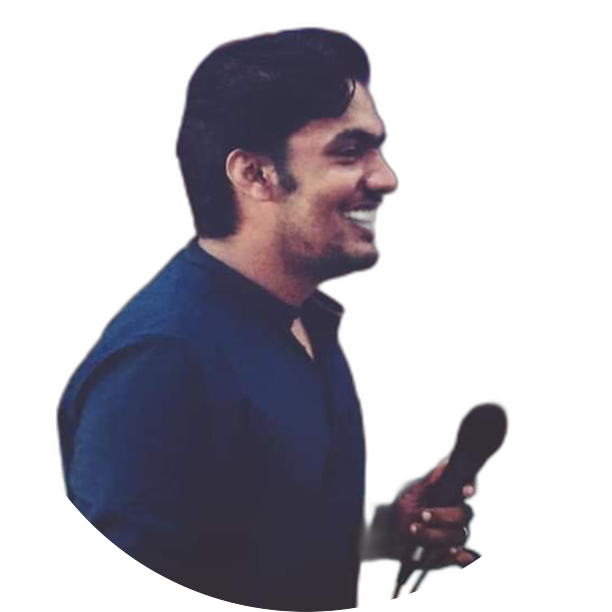
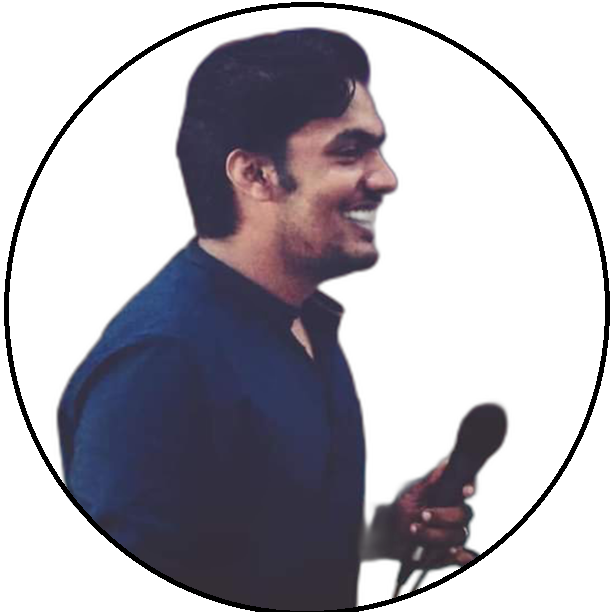
social media buttons, proPic update

diff --git a/index.html b/index.html
@@ -34,7 +34,15 @@
 							<header>
 								<h1>Hi. I'm <strong>Jishnu Prakash</strong></h1>
 							</header>
-							<p>Data Scientist • Volunteer • Engineer</p>
+							<p>Data Scientist • Volunteer • Engineer
+								<ul class="social">
+									<li><a href="https://www.linkedin.com/in/jishnuprakashkp/" class="icon brands fa-linkedin-in"><span class="label">LinkedIn</span></a></li>
+									<li><a href="https://github.com/Jishnuprakash" class="icon brands fa-github"><span class="label">Github</span></a></li>
+									<li><a href="https://www.instagram.com/jishnuprakash.kp/" class="icon brands fa-instagram"><span class="label">Instagram</span></a></li>
+									<li><a href="https://twitter.com/jishnuprakashkp" class="icon brands fa-twitter"><span class="label">Twitter</span></a></li>
+									<li><a href="https://www.facebook.com/profile.php?id=100002060808403" class="icon brands fa-facebook-f"><span class="label">Facebook</span></a></li>
+								</ul>
+							</p>
 							<a href="#projects" class="button large scrolly">Click to see my projects!</a>
 						</div>
 					</div>

diff --git a/assets/css/main.css b/assets/css/main.css
@@ -1804,7 +1804,7 @@ input, select, textarea {
 					-webkit-transition: background-color .2s ease-in-out;
 					-ms-transition: background-color .2s ease-in-out;
 					transition: background-color .2s ease-in-out;
-					background-color: #444;
+					background-color: #FFFFFF;
 					border-radius: 6px;
 					box-shadow: inset 0px 0px 0px 1px #282828, inset 0px 2px 1px 0px rgba(255, 255, 255, 0.1);
 					color: #2E2E2E !important;
